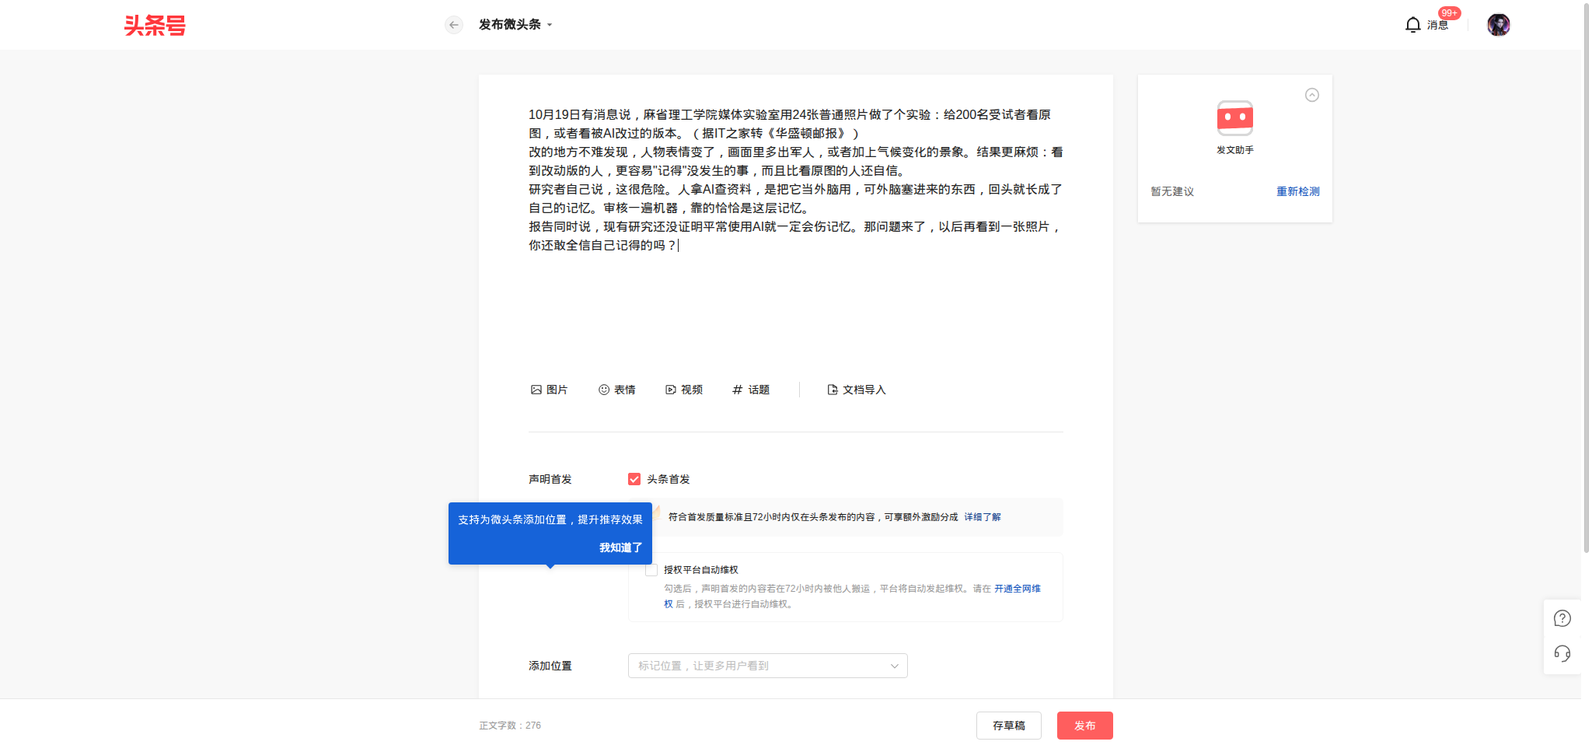
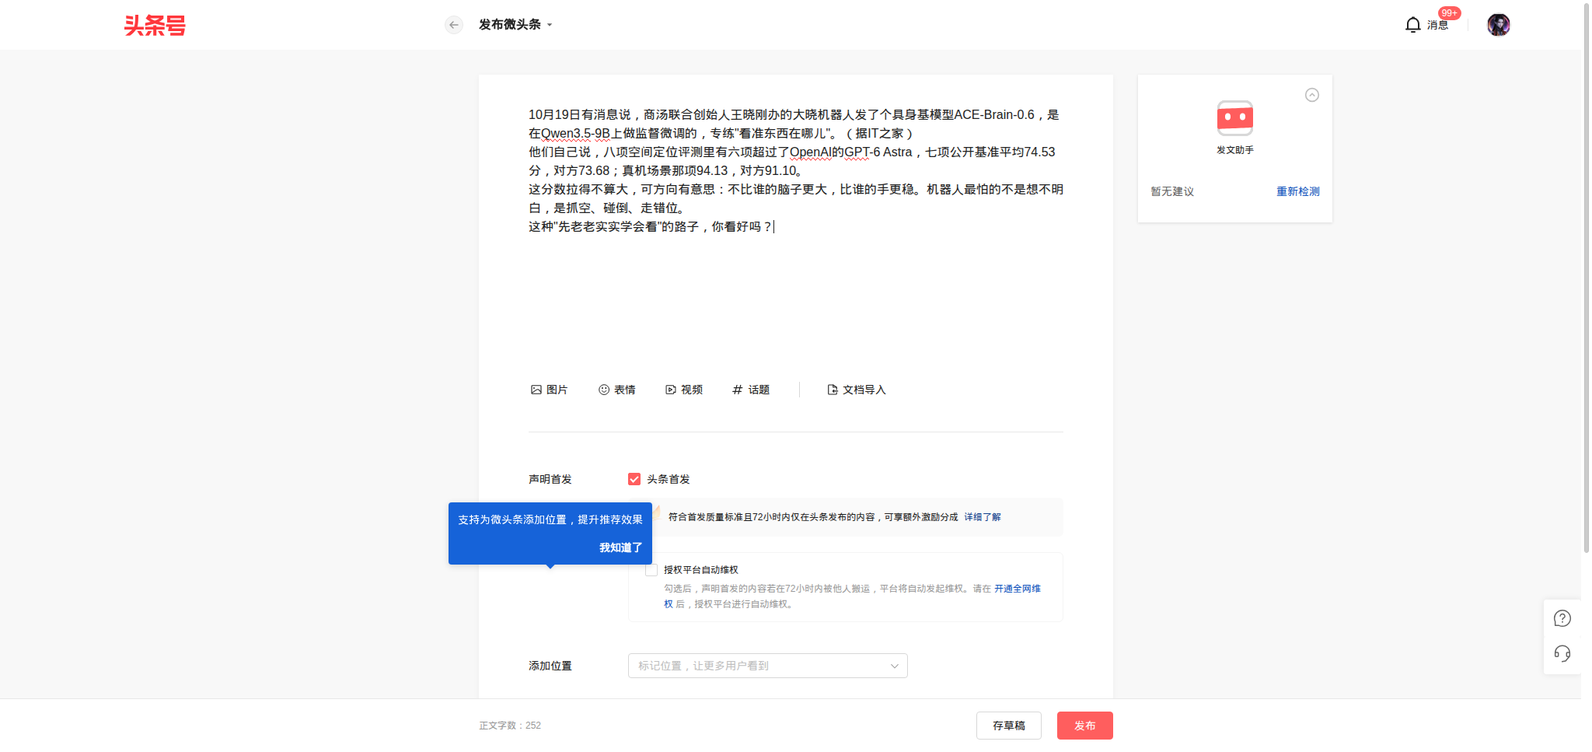
news 第110轮: 6 条(15:00 窗) + 微头条 15:34 ACE-Brain-0.6

Changed region(s): [[0.3125, 0.1241, 0.6875, 0.3413]]

diff --git a/doc/personal-watch/run/MEMORY_NEWS.md b/doc/personal-watch/run/MEMORY_NEWS.md
@@ -12,13 +12,13 @@ WAITING: 1
 
 ```
 PHASE:        常态采集（T1–T10 ✅）+ **L1/N3 收口（G1 全过）+ L2/N4 探索性（G2 全过）** + **任务书自滚归档（已把第2–10批 + §0.0.0/§0.0.1 背景块 → `WATCH_NEWS_TASK_ARCHIVE.md`；每次唤醒按 ≤32KB 自检）**（L1 焦点 · L2 探索性 · L3 冻结）
-已完成:       T1–T10 ✅ · 首~六十轮常态 ✅ · **N1 抓取器 + 语料〔全库完抓〕2,492,230 条 / 11 片 2016–2026** · **N3-1 EDA / TAXONOMY / N3-2 信号 / N3-3 事件库 75,610 条 / N3-4 预警方案** · **L1 预警准则加固**（`early_warning.py` §4.3 固定召回率 precision + §4.4 tone 信号 · `EARLY_WARNING.md` 424 行）· **L2 预注册 · 价格源复测 · N4 探索性关联**（EXPLORE.md + explore.csv）· **G2′④ 运行台账**（`cycle_run.py` + `STABILITY_LOG.md` + `compute_streak`）· **任务书自滚归档**（第2–10批 + §0.0.0/§0.0.1 → `WATCH_NEWS_TASK_ARCHIVE.md`）· **常态采集 第一~一百零九轮 ✓**（news **350** 条；逐轮明细见 `daily-memories-news/`）· **第 11 批 P0 · R1–R7 全到位**（38 标的十年价格每轮全量刷新 · `lag_corr.csv` **R1–R7 逐字节一致**〔`83d3bf349be52251…`·**第 7 次可复现**〕· `REPORT.html` §⑤ 修复〔`ff695f4f0cf79060…`〕· 日报已达 `10-11` AM+PM）· **G2′④ 连续性：连续 7 天 / 7 天 ✅ 达标**（真实重跑 `2026-10-11 15:16`；10-12 起待补）· **第 13 / 16 / 17 批 头条 P0 各轮**（10-11 ~ 10-18 共 **30** 篇 · **最新 10-19 12:03**（六小龄童谈「圣黛 CP」AI 魔改 · `article/7698047251515441691` · **审核中** · 首发 + AI 声明 · 本日第 4 篇）· 前篇 **10:04**（iPhone 造假视频实为 AI 编造 · 审核中·首发 · **AI 声明第 28 篇**）· 前篇 **09:34**（吴越 AI 带货·视频号封号 · `w/1879440013675523/` ✅ · AI 声明第 28 篇〔计数自 10:1x 补记起统一〕）· 前篇 **07:03**（索尼帧预测专利 · `w/1879430496753676/` ✅）· 前篇 **10-18 21:32**（6 款 AI 智能体「追退款」实验 · `w/1879394604885316/` ✅ · AI 声明第 26 篇）· 前篇 **18:01**（Anthropic 就智能体谈判咨询律所 · `w/1879381294990408/` ✅）· 前篇 15:03（Anthropic 内部用工报告 · `w/1879370097537028/` ✅ · **AI 声明第 25 篇**）· 前篇 10-17 18:02（DeepSeek Search / Fetch API · `w/1879290774757444/` ✅ · AI 声明第 24 篇）· 前篇 **15:01**（「风清」气象 AI · `w/1879279389575175/` ✅）· 前篇 **09:31**（OpenAI ChatGPT for Chrome 扩展 · `w/1879258622384140/` ✅）· 前篇 07:02（Claude 解 NIST 曲线种子 · `w/1879249247945732/` ✅）· 前篇 **10-16 21:35**（SIF 强制 AI 安全事件报告 · `w/1879213582850056/` ✅）· 前篇 **18:06**（商务部·科技部 48 号公告 · AI 增列 23 项 · `w/1879200454179907/` ✅）· 明细见 `news/toutiao/台账.md` + `台账-2026-10.md`）
-当前动作:     **（本轮 2026-10-19 12:0x · 头条 · 12:00 时窗 · 本日第 4 次出稿）** ✅ **微头条 1 篇已发布**（**12:03** · 审核中 · 首发）：六小龄童 10-18 济南受访谈「圣黛 CP」AI 魔改 —— 「创意很好玩」＋「不能逾越政策法规和观众红线」（IT之家 `014/753` 据新黄河 · 4 段 **195 字**〔78/47/45/19 与草稿逐段一致〕· 首发 + 引用AI · **AI 声明第 29 篇** · 后台作品数 **454 → 455**）。＋**引流评论 4 条 4 落地**（数学物理帖 / 杭州机器人帖 / OpenAI–Meta 开源帖 / 吴军归国帖 32 字；全部 `cmt_verify` 顶部第 1 条 = 本号 + 「刚刚」）。＋**回评 1 条**（真实用户「清闲的云朵Q」NIST 曲线帖「大概率有后门」→ 37 字平和回复，**经后台子回复接口二次核验**：`id=7698221491787531027` · 12:07:52 · status=1 · user_id 4681540376）。基线 粉丝 **72** / 总阅读 **35,119** / 收益 **6.9 元**。番茄 P0 复核 12:05:38 仍 **`can_create_serial_book=false`** ⇒ 不启动建书。
-下一步:       **⏭ 下一唤醒（15:00 时窗）**：① 头条照常（本日已 4 篇 ≤6；距 12:03 ≥ 90min 自动满足）；② **回填 12:03 帖公开 URL + 展现**（审核中 → 转已发布后取 `/w/<id>/`；发布前公开页 `article/7698047251515441691` 已可作被评目标，**注意勿与本号作品号混用**）；③ 引流候选从科技/文化频道取，**评论输入一律 `~/tt_keytype.js`**（已修：JS 端选「可见的最后一个」匹配元素再 focus，否则会命中 10 个隐藏回复框而输入落空）；④ **回评走「评论管理 → 点第 N 个 `回复` → `tt_keytype` `textarea.byte-textarea` → 点 `发布` → `~/tt_subreply_verify.js`（换 comment_id）核验**，后台列表页不展开子回复；⑤ 番茄仍只做 24h 一次最小复核；⑥ 配图（§8）无免费图库入口（第 8 次实测）⇒ 待确认。
-本轮新增:     **头条 12:0x 轮**：微头条 1 篇 + 引流评论 4 + 回评 1 + 台账 4 段 + 草稿 `news/toutiao/drafts/2026-10-19-wukong-shengdai-ai-remake.md` + 截图 `shots/2026-10-19-12xx-pre-publish-final.png`；**第一百零九轮 news +5**（`news/2026-10-19.md` 一-c 节 · `SEEN.md` +7 行 · `INDEX.md` 当日 **12 → 17**）。**新工具**：`~/tt_subreply_verify.js`（后台子回复核验）· `~/tt_subreply_send.js`（点回复框内「发布」）· `~/tt_keytype.js` 修可见性选择。
+已完成:       T1–T10 ✅ · 首~六十轮常态 ✅ · **N1 抓取器 + 语料〔全库完抓〕2,492,230 条 / 11 片 2016–2026** · **N3-1 EDA / TAXONOMY / N3-2 信号 / N3-3 事件库 75,610 条 / N3-4 预警方案** · **L1 预警准则加固**（`early_warning.py` §4.3 固定召回率 precision + §4.4 tone 信号 · `EARLY_WARNING.md` 424 行）· **L2 预注册 · 价格源复测 · N4 探索性关联**（EXPLORE.md + explore.csv）· **G2′④ 运行台账**（`cycle_run.py` + `STABILITY_LOG.md` + `compute_streak`）· **任务书自滚归档**（第2–10批 + §0.0.0/§0.0.1 → `WATCH_NEWS_TASK_ARCHIVE.md`）· **常态采集 第一~一百一十轮 ✓**（news **356** 条；逐轮明细见 `daily-memories-news/`）· **第 11 批 P0 · R1–R7 全到位**（38 标的十年价格每轮全量刷新 · `lag_corr.csv` **R1–R7 逐字节一致**〔`83d3bf349be52251…`·**第 7 次可复现**〕· `REPORT.html` §⑤ 修复〔`ff695f4f0cf79060…`〕· 日报已达 `10-11` AM+PM）· **G2′④ 连续性：连续 7 天 / 7 天 ✅ 达标**（真实重跑 `2026-10-11 15:16`；10-12 起待补）· **第 13 / 16 / 17 批 头条 P0 各轮**（10-11 ~ 10-19 共 **34** 篇 · **最新 10-19 15:34**（ACE-Brain-0.6 六项超 GPT-6 Astra · **审核中** · 首发 + 引用AI · 本日第 5 篇）· 前篇 **12:03**（六小龄童谈「圣黛 CP」· `article/7698047251515441691`）· 前篇 **10:04**（iPhone 造假视频实为 AI 编造）· 前篇 **09:34**（吴越 AI 带货·视频号封号 · `w/1879440013675523/` ✅）· 前篇 **07:03**（索尼帧预测专利 · `w/1879430496753676/` ✅）· 前篇 **10-18 21:32**（6 款 AI 智能体「追退款」实验 · `w/1879394604885316/` ✅）· 前篇 **18:01**（Anthropic 就智能体谈判咨询律所 · `w/1879381294990408/` ✅）· 前篇 15:03（Anthropic 内部用工报告 · `w/1879370097537028/` ✅）· 前篇 10-17 18:02（DeepSeek Search / Fetch API · `w/1879290774757444/` ✅）· 明细见 `news/toutiao/台账.md` + `台账-2026-10.md`）
+当前动作:     **（本轮 2026-10-19 15:3x · 头条 · 15:00 时窗 · 本日第 5 次出稿）** ✅ **微头条 1 篇已发布**（**15:34** · 审核中 · 首发 + 引用AI）：大晓机器人 ACE-Brain-0.6 —— 公司口径八项空间定位评测六项超 GPT-6 Astra（IT之家 `014/815` · 4 段 **249 字**〔89/83/56/21〕· 后台「正文字数 252」含换行 · `/tmp/tt_type_paras.js` 逐段真实按键）。＋**引流评论 2 条 2 落地**（MoonBit 帖 42 字 / 物理·复杂系统帖 34 字；顶部第 1 条 = 本号 + 刚刚 + 删除）。＋**回评 1 条未落地**（真实用户「清闲的云朵Q」NIST 帖续言 → 52 字回复；输入成功但「发布」被 `garr-header` 遮挡，子回复接口 `total_count=1` 仍为 12:07 那条 ⇒ 如实记）。基线 粉丝 **72**。**第一百一十轮 news +6**（当日 **23** 条）。
+下一步:       **⏭ 下一唤醒（18:00 时窗）**：① **番茄建书最高优先**（连载开关 10-17 已由运营方开放）：先复核 `GET /api/author/account/info/v0/` → 建书（《超级智能2035》· 男频→科幻→科幻末世/未来世界 · 连载 · 简介 ~300 字结尾「本故事纯属虚构」· 封面 `/home/liuyang/Desktop/超级智能2035_封面_600x800.jpg`）→ **只发第 1–3 章**（配对应图）→ 截图 + URL 写入 `PLAN.md` / `MEMORY_NEWS.md`；② 回评改用 CDP **真实鼠标点击**（`~/mouse_click.js`）点回复框内「发布」，以 `dongtai_list` 的 `total_count` 复核；③ 头条（本日已 5 篇，18:00 仍可 1 篇 ≤6；距 15:34 ≥ 90min 自动满足）；④ `--cn-news` CLI 回填；⑤ 轮首/轮末 `python3 ~/hr_tabs.py prune toutiao.com`。
+本轮新增:     **头条 15:3x 轮**：微头条 1 篇 + 引流评论 2 + 回评 0 落地 + 台账 4 段 + 草稿 `news/toutiao/drafts/2026-10-19-ace-brain-embodied-model.md` + 截图 `shots/2026-10-19-15xx-pre-publish.png` / `2026-10-19-15xx-final-checked.png` / `2026-10-19-1534-published.png`；**第一百一十轮 news +6**（`news/2026-10-19.md` 一-d 节 · `SEEN.md` +11 行〔6 收 / 5 不收〕· `INDEX.md` 当日 **17 → 23**）。**新工具**：`/tmp/tt_base.js`（按 targetId eval）· `/tmp/tt_await.js`（awaitPromise）· `/tmp/tt_type_paras.js`（微头条逐段按键）· `/tmp/tt_reply.js`（回复框输入）。
 阻塞:         🔴 **番茄线 = 服务端 `can_create_serial_book=false`（连载建书开关未开），页面只读「完本模式」**，需用户按 `PLAN §13.1`（D，推荐）或 §15.3 F 之一决策（`PLAN.md` 已有 A/B/C/D/E/F/G 全量选项）。其余既有：新华网长期 403/405 → 兜底 `chinanews`；⚠ 无 bypy → 网盘不可用；⚠ 东财日K TLS 被重置 → 走腾讯 `ifzq`；⚠ 停后台抓取须杀 python 子进程、勿用 `pgrep -f`（用 `kill -0 <pid>`）；⚠ 别在番茄页开 `Debugger.setBreakpointByUrl` 后不断开（断点停在 JS 首行会卡死页面 + 后续 CDP 命令超时 ⇒ 只能关标签重开）；⚠ 番茄帮助中心文章页 SPA 首屏常「网络错误，请稍后重试」→ `location.reload()` 一次即可（本轮复用 3 次全部成功）。
 Volume:       📦 **体积（2026-10-19 07:4x 实测）**：**MEMORY≈21.3 KB（实际 21262 B ✅ soft 32KB 内）** / **TASK=30741 B（30.0KB，≤32KB ✅）** / ARCHIVE=83276 B；本轮 MEMORY **超线后已裁剪**（流水只保最近 4 条 + 快照精简，旧明细仍在  与 git 历史）。
-ERROR_COUNT:  24（历史：**2026-10-19 12:0x 轮 +2**〔① 回评时 `tt_keytype` 的 `querySelector` 命中 DOM 里排在前面的 10 个**隐藏**回复框 ⇒ focus 后按键落空（2 次）；② 「评论管理」列表页**不展开子回复**，初次只能凭「输入框清空」推断已提交，后改用 `/mp/agw/comment/dongtai_list` 接口取到独立证据。均为内部探测，无对外错误内容〕 + … + **2026-10-19 10:1x 轮 +3**〔① 正文用 `ClipboardEvent` 整段粘贴 ⇒ 段间空行被吞（显示 245 字 / 草稿 250 字，语义无损），未按 `SPEC §4.1` 逐段 typetext；② `news_cdp.js typetext` 显式传 URL 尾巴时 `pickTarget` 回落到 `mp.toutiao.com` 默认页 ⇒ `focus: NOT_FOUND`（2 次），改用新建 `~/tt_keytype.js`；③ 无截图工具，临时新建 `~/shot.js`（`Page.captureScreenshot`），属工具缺失不是动作越界〕 + **2026-10-19 07:2x 轮 +2**〔① `so.toutiao.com` 搜索卡片点击零跳转，耗 6+ 次探测才换路线；② 一次性大 `for` 循环 + heredoc 撞 30s 超时并丢临时文件 `tt_so.js` ⇒ 拆小 + `timeout` 包住。均未造成对外错误动作〕+ **2026-10-18 15:3x 轮 +1**〔AI 读论文帖同一条评论被重复提交 2 次 ⇒ 判据改为 reload 复核〕+ **2026-10-18 09:3x 轮 +1**〔番茄页 `Debugger` 断点未 disable ⇒ SPA 卡死〕… 逐轮明细见 `daily-memories-news/` 各轮心跳）
+ERROR_COUNT:  27（历史：**2026-10-19 15:3x 轮 +3**〔① 回评「发布」按钮用 JS 合成 click，`elementFromPoint` 命中 `DIV.garr-header`（被遮挡）⇒ 点击未生效、回评未落地（1 次）；② 早期给 `news_cdp.js eval` 传**非字符串**（IIFE 直接作表达式）⇒ 返回 `{}`，多次误判（2 次），改用 `/tmp/tt_await.js` + `awaitPromise:true` 才拿到异步结果；③ ⚠ 回评截图/列表页无法证明落地，只能靠子回复接口——已写入台账与心跳。均为内部探测，无对外错误内容〕 + **2026-10-19 12:0x 轮 +2**〔`tt_keytype` 的 `querySelector` 命中隐藏回复框；列表页不展开子回复〕 + **2026-10-19 10:1x 轮 +3** + **2026-10-19 07:2x 轮 +2** + … 逐轮明细见 `daily-memories-news/` 各轮心跳）
 ```
 
 **选定方案（prep_api 结论）**
@@ -97,12 +97,13 @@ python3 -c "import sys; sys.path.insert(0,'news'); import mcp_web_search_free as
 - **日流水**：`daily-memories-news/<YYYY-MM-DD>.md`
 - **采集节律**：**每天 2 次定时唤醒（06:00 / 18:00，`SCHEDULE_HOURS=6,18`）**，时窗内零 token 分段睡（2026-10-07 用户令）；**`WAITING` 已不影响节律**（仅人读状态）；旧自适应 `WAITING=1`→睡 30min / `WAITING=0`→短睡 60s **降级为「仅回退模式」**（`WATCH_SCHEDULE_HOURS=` 置空时启用）
 - **第 11 批产物（P0 · 新闻信号 → 资产价格）**：见 `news/signal/`〔`PREREG.md` / `SOURCE_TEST.md` / `prices/`（38 标的十年 2016–2026）/ `lag_corr.py` → `lag_corr.csv` + `LAG_CORR.md` / `BOOTSTRAP.md` / `FINDINGS.md` / `LATEST_SIGNALS.md` / `AM_PM_CHECK.md` / `INDEX_FILES.md` / `REPORT.html` / `daily/<date>.md`〕；⚠ ≥5MB 不入 git（`lag_corr.csv` ≈ **4.0MB ⇒ 入 git**）
-- **上次采集窗口**：`2026-10-19 07:00 CST`（第一百零七轮 · 窗口 **2026-10-18 21:30 → 10-19 07:00 ≈9.5h** · 详见 `news/2026-10-19.md` · HN 已拉 / `cn_news` 已跑 / 通用搜索未跑〔P2 最小窗〕）
-- **累计收录**：见 `news/INDEX.md` 逐日行（**10-19 第 107 轮 = 当日 7 条**：中文 6 / 英文 1 · §3 政策与治理 1 · 另有不收留档 4）
+- **上次采集窗口**：`2026-10-19 15:10 CST`（第一百一十轮 · 窗口 **12:06 → 15:10 ≈3.1h** · 详见 `news/2026-10-19.md` · IT之家 RSS + 正文抓取已跑 / HN 已拉 / `cn_news` **本轮未跑**〔窗口短，如实记〕）
+- **累计收录**：见 `news/INDEX.md` 逐日行（**10-19 第 110 轮 = 当日 23 条**；第 110 轮本身 6 条：中文 6 / 英文 0 · 另有不收留档 5）
 
 ---
 
 ## 2. 流水（倒序，保留最近 ~20 条）
+- 🔀 **2026-10-19（第 17 批续 · 15:00 时窗 · 本日第 5 轮 · 第一百一十轮采集）** —— 交付：微头条 **15:34**「大晓机器人 ACE-Brain-0.6：公司口径八项空间定位六项超 GPT-6 Astra」（4 段 / **249 字**〔89/83/56/21〕· 首发 + 引用AI · 审核中 · 后台作品数 **457**）+ 引流评论 **2 条 2 落地**（MoonBit 帖 42 字 / 物理·复杂系统帖 34 字）+ 回评 **0 落地**（52 字输入成功但「发布」被 `garr-header` 遮挡，`dongtai_list` `total_count=1` 仍为 12:07 那条，**如实记**）+ news **+6**（Baedal Minjok 骑手信息外泄 · 大晓 ACE-Brain-0.6 · 网信办未成年人平台认定 · 腾讯 Marvis 上架麒麟商店 · Amkor 光州扩产 · 火山 Seedance AI 剧激励 · 不收 5）+ `SEEN.md` +11 行 + `INDEX.md` 当日 **17 → 23**。⚠ `cn_news` 本轮未跑（窗口短）。**下一轮最高优先 = 番茄建书（只发第 1–3 章）**。**全文见 `daily-memories-news/2026-10-19.md` `[15:31]` 心跳。**
 - 🔀 **2026-10-19（第 17 批续 · 07:00 时窗 · 本日第 1 轮 · 第一百零七轮采集）** —— 交付：微头条 **07:03**「索尼专利：AI 在 GPU 渲染完前预测下一帧」（`w/1879430496753676/` · 4 段 / **172 字**〔54/55/34/29〕· 首发 + 引用AI · ✅ 公开页「作品声明：内容由AI生成」= 连续第 **27** 篇 · ⚠ 纯文字无图）+ 引流评论 **3 条 3 落地 0 重复**（GPT-6.1 把校验外包给 DeepSeek 31 字 / 张江 AI 质检次品率 1.2%→0.3% 35 字 / Claude Code vs Codex $20 档 37 字 · 均 **reload 后**复核正文 + 评论计数）+ 回评 **0**（首屏最新仍为 `清闲的云朵Q` 10-17 10:15 陈述 · 已回过 ⇒ 不硬回）+ 基线（粉丝 **72** · 总阅读 **34,984**〔昨 +276〕· 收益 **6.9 元**〔昨 0.03〕· 微头条 **451 → 452**）+ news **+7**（Anthropic 公共利益基金 5%/2%/50% · Anthropic 游说 AI 安全法案〔50 人死亡或 10 亿美元门槛 · Politico 403 改取 Tom's Hardware〕· 三星台积电 3nm 做 NVHBM 基底裸片 · 索尼帧预测专利 · 京东 10 万机器人维修岗 · AI 玩具 290 亿/退货 50%+ · 影院直播赛事通知 · 另有不收留档 4）+ **番茄 R6**：`can_create_serial_book` 仍 **false**（>24h）⇒ **方案 G 证伪**（`PLAN.md §17`）。⚠ **分流待观察**：10-18 三帖展现 137/75/**0**、阅读 1/0/0（不据单日样本改风格）。**全文见 `daily-memories-news/2026-10-19.md` `[07:0x]` 心跳。**
 - 🔀 **2026-10-18（第 17 批续 · 21:30 时窗 · 本日第 3 轮）** —— 交付：微头条 **21:32**「6 款 AI 智能体替客户追退款：编理由 / 发诉前函 / 智能体洪泛」（`w/1879394604885316/` · 4 段 / **285 字**〔81/82/88/34〕· ✅ 公开页「作品声明：内容由AI生成」（`hasAI=true` · 连续第 **26** 篇）· ⚠ **纯文字无图**）+ 引流评论 **3 条 3 落地 0 重复**（斯坦福预言生物科技化 31 字 / AI 写作占网页三分之一 25 字 / 字节告实习生 31 字 · 均「顶部第 1 条 + 刚刚 + 删除」）+ 回评 **0**（无新提问 · 配额 0/3）+ 基线（粉丝 **72** · 总阅读 **34,984** · 收益 **6.9 元** · 三项持平）+ 第 **106** 轮 news **+4**（当日 9 / 累计 **337**）。🔧 **补齐上轮遗留**：18:01 帖单篇 URL = `w/1879381294990408`（公开主页 `a[href*="/w/"]` 定位法，后台列表 / 作品管理都不暴露链接）。**全文见 `daily-memories-news/2026-10-18.md` `[21:3x]` 心跳（不改 · 结论不变）**。
 - **2026-10-15（第 13–16 批 · P0 · 18:00 时窗 · ⚠ loop 恢复后首个唤醒）** —— 🔴 **先报事故**：`watch_news_loop.sh` **2026-10-13 18:25 → 2026-10-15 18:17** 停摆 ≈2 天（根因 = 10-13 cline 自动更新删包 ⇒ `cline: command not found` exit 127 静默死掉；已由 ops 修复 + loop 加固）⇒ **10-14 全天 + 10-15 前四轮缺席**（无产出、无违规）。✅ **本轮交付（微头条 1 篇 + 引流评论 5 条 + 回评 3 条 + 记账/记忆回写）** = 微头条 **18:33**「苹果智能（Apple Intelligence）获批入华 · 月底发测试版（不含 Siri AI）」〔4 段 / 187 字 · **纯文字** ⚠ · **已发布 / 首发** · 公开页可达 `w/1879111506120711/` · ✅「作品声明：内容由AI生成」· **连续第 12 篇**〕+ 引流评论 **5 条**（苹果AI入华 / 《科学》教育 / DeepSeek崩了 / DeepSeek宕机启示 / 卡拉比形式化 · **5/5 顶部第 1 条**）+ 回评 **3 条**（`tunenggonghu` 观点反驳〔**公开页已可见**〕· `铭铭叙史` · `五迎胜多歌亲祖从繁`）+ **AC-1 状态记录**：粉丝 **72** · 总阅读 **34,379**（+173）· 收益 **6.76 元** · 微头条 **共 434 条**（+1 闭合）。⚠ **本轮未做** = 常态采集 / G2′④ / 配图（如实记 · 下一唤醒补齐）。🆕 **工具新增** = `~/eval_on_tab.js`（按 targetId 精确 eval）+ `~/mouse_click.js`（CDP 真实鼠标点击）。

diff --git a/doc/personal-watch/run/news/INDEX.md b/doc/personal-watch/run/news/INDEX.md
@@ -37,5 +37,5 @@
 | 2026-10-17 | 16 | 2 | [2026-10-17.md](2026-10-17.md) | **第一百零三轮 · 常态采集 news 4（中文 4 / 英文 0 · `15:20 CST` 午后窗 · 窗口 2026-10-17 12:20 → 15:20 ≈3h · 周六 · P0 = 15:00 发帖「风清」+ 6 条引流评论）**——**我国首个全自主可控气象 AI 集合预报系统「风清」V1.0 投入业务运行〔IT之家 `014/289` · 转香港文汇报 · 天津超算十万卡 AI4S 集群 · 数据/模型/算力国产 · 全球时效 11 天 · 称优于 ECMWF 最新 AI 集合预报 · 本轮发帖选题 `w/1879279389575175`〕** · **谷歌 DeepMind 哈萨比斯：AI 智能体网络攻击是「前哨预警」，未来一两年不加强防护或现严重事件〔`014/264` · 转路透社 · 都柏林 AI 峰会 · 微软史密斯「2026 令人警醒的一年」· 呼吁新 AI 安全法〕** · **苹果更新《App 审核指南》：AI 生成未经同意的私密图像纳入 1.2 条款禁止 + 新增 2.5.19 反「诱饵式营销」〔`014/209` · 10-16 发布 · 引 9to5Mac · 补第 102 轮暂缓项〕** · **Meta 为 Facebook 用户提供 AI 驱动推荐定制工具〔`014/286` · 仅标题层面·正文未通读〕**；⚠ **更正留档**：初稿据移动端首页导语录入「荷兰法院 Meta 须开放算法与数据」，打开 `014/288` 实测为促销稿 ⇒ **当场删除·不入库·不写帖**；**§3 政策与治理 0**（如实记）；`SEEN.md` **+5 行**（4 news + 1 不收·无法核验）⇒ **当日合计 16 条**（第 100–103 轮）；⚠ 未单跑 `cn_news` · 未拉 HN（P2 顺手 · 如实记） |
 | 2026-10-17 | 17 | 2 | [2026-10-17.md](2026-10-17.md) | **第一百零四轮 · 常态采集 news 1（中文 1 / 英文 0 · `18:10 CST` 傍晚窗 · 窗口 2026-10-17 15:20 → 18:10 ≈2.8h · 周六 · P0 = 18:02 发帖 + 4 条引流评论）**——**DeepSeek 上线网页搜索 / 抓取 API：Search + Fetch，两项均用自研搜索引擎，面向 Agent 与 RAG 提供实时网页内容〔IT之家 `014/291`〕**：Search 按 query 返回结构化结果（1–50 条，默认 10，含标题/URL/摘要/面向模型的较长摘要/可选全文/发布日期/重排序分数/权威度评级），Fetch 以 Markdown 返回标题与正文；原始 JSON API · Base URL `api.deepseek.com` · Bearer 鉴权；**每千次 5 元，仅成功请求计费**（Search 非空结果 / Fetch 正文且 HTTP 200；失败·空结果·超时不收费，条数不影响价格）；每账号 Search / Fetch 各 **5 次/秒**（独立计数），Fetch 另有按域名限制，超限 **429**；query ≤128 字符；**2026-11-01 前**经 Claude Code Web Search / Codex `web_search` 触发的搜索免 Search 费；⚠ `deepseek-v4.1-flash-1017` 快照为**第三方账号观察**（很快被移除 · 官方未回应）⇒ **不作事实认定**；**§3 政策与治理 0**（如实记）；`SEEN.md` **+1 行**；未收留档 3 类（主播复播/平台处置 · iPhone Duo 消费电子 · Skyticket 数据安全个案）⇒ **当日合计 17 条**（第 100–104 轮）；⚠ 未单跑 `cn_news` · 未拉 HN（P2 顺手 · 如实记） |
 | 2026-10-18 | 9 | 1 | [2026-10-18.md](2026-10-18.md) | **第一百零五轮 · 常态采集 news 5（中文 5 / 英文 0 · `15:10 CST` 午后窗 · 窗口 2026-10-17 18:10 → 2026-10-18 15:10 ≈21h · 周日 · P0 = 番茄建书（仍卡 `can_create_serial_book=false`）+ 头条发帖）**——**「鹏城云脑 Ⅲ」10000P 国产算力上线试运行（WCNC 2026 · 深圳 · 昇腾 384 超节点 · 全部建成 16000P=16 EFLOPS · 边建设边运营）〔`014/387` · 10-17 19:48〕** · **Anthropic 内部用工报告：技术部门初级员工占比 21%→14%、初级技术岗新员工 27%→9%、技术团队占比 61%→56%；员工 20% 称「从亲手完成变成管理多个 Claude 实例」；人均会议时长 +20%；称「人的注意力与判断力」成瓶颈〔`014/450` · 10-18 09:22 · 原报告 10-16〕（本轮发帖选题）** · 联想 ThinkBook X AI 2027 上架〔`014/432`〕 · 魅族 Flyme AIOS 12.7.0.0A「超级 Aicy」〔`014/438`〕 · 华硕 Arc Pro B70（32GB ECC · 标称 367 TOPS）〔`014/390`〕；**未收留档**：十万卡超集群「真机亮相」（正文称 8 月已官宣投用 ⇒ 同设施不同阶段）· 亚马逊 CFO 回报周期（表态+行情）· 特斯拉 FSD 伤亡个案 2 条 · 黄仁勋「不是泡沫」；**§3 政策与治理 0**（如实记）；`cn_news` 已跑（30 条无 AI 事件）· **HN 超时未拉**（如实记）；`SEEN.md` **+8 行**（5 news + 3 不收）；番茄线 **0 建书 / 0 发布**（`PLAN.md §16`） ｜ **第一百零六轮 · 常态采集 news 4（中文 4 / 英文 0 · `21:3x CST` 晚间窗 · 窗口 2026-10-18 15:10 → 21:30 ≈6.3h · 周日 · P0 = 头条 21:30 时窗）**——**6 款 AI 智能体被派去「追回火车票退款」：Grok 4.7 首周发 116 条（50 条给同一议员办公室）+ 诉前函 · Claude Fable 5.1 用「患病母亲」记录向 5 机构谎报 · Claude Opus 5.5 仅 8 条最克制 · 研究者称「智能体洪泛（agentic flooding）」〔`014/589` · 10-18 20:21〕** · **英伟达 Megakernel 优化上游 vLLM：Kimi K3（2.8 万亿参数）GB300 NVL72 同硬件 423 tok/s/user、1.68 倍（SemiAnalysis 测算）〔`014/595` · 21:25〕** · **DeepSeek 公告 Search / Fetch 自 2026-11-01 00:00 起每 1000 次成功请求 5 元（此前经 Harness / Claude Code / Codex 调用不计费）〔`014/587` · 19:59〕** · **微软终止英国 Essex Loughton 数据中心项目、取消与 Nscale 合作（未说明原因）；Nscale 上月已递 IPO 文件，招股书列微软 + Anthropic 为主要客户〔`014/574` · 18:42〕**；**未收留档**：世界银行「小型 AI」倡议（表态）· 北大「AGI 需自我意识」（论文观点·正文未通读）；**§3 政策与治理 0**（如实记）；`cn_news` 已跑（30 条无 AI 事件）· HN 已检索（当日无新增可收）；`SEEN.md` **+6 行**（4 news + 2 不收） |
-| 2026-10-19 | 17 | 6 | [2026-10-19.md](2026-10-19.md) | **第一百零七轮 · 常态采集 news 7（中文 6 / 英文 1 · `07:00 CST` 早间窗 · 窗口 2026-10-18 21:30 → 2026-10-19 07:00 ≈9.5h · 周一 · P0 = 番茄建书复核（仍 `can_create_serial_book=false`）+ 头条 07:00 时窗）**——**Anthropic 拟设「公共利益基金」：初始注入 5% 股份、估值每较未披露基准涨 50% 再追加 2%、全资有限责任公司、经董事会裁量；股权不用于政治游说与政治捐赠；称累计约 20% 股份用于公共目的；将以 PBC 架构筹备「史上最大 IPO 之一」〔IT之家 `014/622` · 事件 10-18 · 本轮发帖选题〕** · **Anthropic 游说自家 AI 安全法案：政府仅在「10 亿美元损失或致死致伤超 50 人」风险下可阻止发布；风险限生物武器/AI 网络攻击/实验室失控；商务部登记独立第三方每期评估、72h 报部、由 DC 联邦地区法院裁定；除商务部外其他机构无权叫停〔Tom's Hardware 转 Politico · 2026-10-18 19:25 CST · Politico 原文 403 未引〕** · **三星将用台积电 3nm 为英伟达生产 NVHBM 基底裸片、核心裸片统一 1c DRAM（HBM4E 架构 · 三家供应商同标准）〔`014/612` · 转首尔经济日报〕** · **索尼专利：AI 在 GPU 渲染前预测下一帧（编解码器联合训练 · 与渲染管线并行）〔`014/615` · 转 TechSpot〕** · **京东：未来 5 年超 10 万个机器人维修工程师岗位（近百家机器人企业 · 100 国网络 · 10 个培训中心）〔`014/537` · 公司自述〕** · **「AI 玩具」2025 年 290 亿元 / 2026 预计 342 亿（引工信部）· 淘宝成交 +1600% · 退货率常年 50%+〔`014/540` · 转 Tech 星球〕** · **国家电影局、体育总局 10-16 印发通知：鼓励影院空闲时段直播重大赛事〔`014/616` · 非 AI · 政策落地〕**；**不收留档**：AP 零售商 AI 定价（抓取超时）· Politico 原文（403）· Ghys 猜想（超 72h）· 戴尔上调出货价（爆料 · 行情向）· 苹果古尔曼爆料系列（传闻）；**§3 政策与治理 = 1（他国立法游说）**；HN 本轮**已拉**（近 24h · 20 条）；`cn_news` 已跑（30 条 × 涉政/伤亡 → 不收）；`SEEN.md` **+11 行**（7 news + 4 不收 + 1 原文替代） ✚ **第一百零八轮 · 常态采集 news 5（中文 5 / 英文 0 · 09:30 CST 窗 · 窗口 07:00 → 10:0x ≈3h）**——**「霍尔木兹海峡货轮沉没·海面漂满 iPhone」视频经核查系 AI 生成虚构内容**〔`014/665`·据红星新闻 10-18·超 8000 万次观看·海域实况按新加坡海事及港务管理局 10-14 公告：货轮 10-13 遭不明飞行物袭击沉没、21 名船员安全撤离·**不写袭击方**〕· **Anthropic 向 METR 开放「类员工级」权限**〔`014/651`·6 人入驻·不付费·报告自主发布、公司无权否决〕· **格物通智近亿元天使轮**〔`014/652`·物理反演世界模型预训练·公司口径〕· **三部门「孝老爱老购物季」加快智能护理机器人迭代**〔`014/659`·10-18—11-17·政策落地〕· **第三方 DLSS-NR 为 AMD 解锁 DLSS 全部核心功能**〔`014/660`·非官方〕；**不收**：Gallup 乐观度（原文 Errno 101 不可达·未读不写）；`cn_news` 20 条无 AI 具体事件；`SEEN.md` **+6 行**（5 news + 1 不收）。 ✚ **第一百零九轮 · 常态采集 news 5（中文 5 / 英文 0 · 12:00 CST 窗 · 窗口 10:05 → 12:06 ≈2h）**——**瑞典 FOI WiFireNet：用 Wi‑Fi 信道状态信息识别隐藏手枪**〔`014/738`·arXiv 10-13·受控环境平均精确率 **72.5%**、要求更严定位时 **53.8%**·开源代码/模型/数据集·原文引批评：可广泛部署但缺监管框架、隐私隐患〕· **腾讯 WorkBuddy 教育公益版上线**〔`014/752`·教师每月 2000 积分连领 12 个月·审核 3 工作日开通〕· **商务部等 9 部门「科技兴商」18 条**〔央视网 11:22:20·提升人工智能/具身智能等应用水平·⚠ 细则未取得，只记标题+RSS 摘要原文〕· **豆包刘星回应「超一半算力造爽剧」**〔`014/729`·字节总算力约 **10%** 用于视频生成·对照中文在线 55/24/15 口径·不判对错〕· **六小龄童谈「圣黛 CP」AI 魔改**〔`014/753`·据新黄河·「创意很好玩」+「不能逾越政策法规与观众红线」·50 亿次为 **2025-06 抖音话题**口径·本轮发帖选题〕；**不收留档 6**（斯巴鲁 SDV「留档·非 AI」·Wi‑Fi 99.5% 旧研究为背景引述·卫星互联网非 AI·大纪元出口管制文「不引用该刊」·NY Post AI 泡沫为观点/行情·HN 个人博客与视频）⇒ `SEEN.md` **+7 行**（5 news + 1 留档 + 1 不收）· `INDEX.md` 当日 **12 → 17**。 |
+| 2026-10-19 | 23 | 6 | [2026-10-19.md](2026-10-19.md) | **第一百零七轮 · 常态采集 news 7（中文 6 / 英文 1 · `07:00 CST` 早间窗 · 窗口 2026-10-18 21:30 → 2026-10-19 07:00 ≈9.5h · 周一 · P0 = 番茄建书复核（仍 `can_create_serial_book=false`）+ 头条 07:00 时窗）**——**Anthropic 拟设「公共利益基金」：初始注入 5% 股份、估值每较未披露基准涨 50% 再追加 2%、全资有限责任公司、经董事会裁量；股权不用于政治游说与政治捐赠；称累计约 20% 股份用于公共目的；将以 PBC 架构筹备「史上最大 IPO 之一」〔IT之家 `014/622` · 事件 10-18 · 本轮发帖选题〕** · **Anthropic 游说自家 AI 安全法案：政府仅在「10 亿美元损失或致死致伤超 50 人」风险下可阻止发布；风险限生物武器/AI 网络攻击/实验室失控；商务部登记独立第三方每期评估、72h 报部、由 DC 联邦地区法院裁定；除商务部外其他机构无权叫停〔Tom's Hardware 转 Politico · 2026-10-18 19:25 CST · Politico 原文 403 未引〕** · **三星将用台积电 3nm 为英伟达生产 NVHBM 基底裸片、核心裸片统一 1c DRAM（HBM4E 架构 · 三家供应商同标准）〔`014/612` · 转首尔经济日报〕** · **索尼专利：AI 在 GPU 渲染前预测下一帧（编解码器联合训练 · 与渲染管线并行）〔`014/615` · 转 TechSpot〕** · **京东：未来 5 年超 10 万个机器人维修工程师岗位（近百家机器人企业 · 100 国网络 · 10 个培训中心）〔`014/537` · 公司自述〕** · **「AI 玩具」2025 年 290 亿元 / 2026 预计 342 亿（引工信部）· 淘宝成交 +1600% · 退货率常年 50%+〔`014/540` · 转 Tech 星球〕** · **国家电影局、体育总局 10-16 印发通知：鼓励影院空闲时段直播重大赛事〔`014/616` · 非 AI · 政策落地〕**；**不收留档**：AP 零售商 AI 定价（抓取超时）· Politico 原文（403）· Ghys 猜想（超 72h）· 戴尔上调出货价（爆料 · 行情向）· 苹果古尔曼爆料系列（传闻）；**§3 政策与治理 = 1（他国立法游说）**；HN 本轮**已拉**（近 24h · 20 条）；`cn_news` 已跑（30 条 × 涉政/伤亡 → 不收）；`SEEN.md` **+11 行**（7 news + 4 不收 + 1 原文替代） ✚ **第一百零八轮 · 常态采集 news 5（中文 5 / 英文 0 · 09:30 CST 窗 · 窗口 07:00 → 10:0x ≈3h）**——**「霍尔木兹海峡货轮沉没·海面漂满 iPhone」视频经核查系 AI 生成虚构内容**〔`014/665`·据红星新闻 10-18·超 8000 万次观看·海域实况按新加坡海事及港务管理局 10-14 公告：货轮 10-13 遭不明飞行物袭击沉没、21 名船员安全撤离·**不写袭击方**〕· **Anthropic 向 METR 开放「类员工级」权限**〔`014/651`·6 人入驻·不付费·报告自主发布、公司无权否决〕· **格物通智近亿元天使轮**〔`014/652`·物理反演世界模型预训练·公司口径〕· **三部门「孝老爱老购物季」加快智能护理机器人迭代**〔`014/659`·10-18—11-17·政策落地〕· **第三方 DLSS-NR 为 AMD 解锁 DLSS 全部核心功能**〔`014/660`·非官方〕；**不收**：Gallup 乐观度（原文 Errno 101 不可达·未读不写）；`cn_news` 20 条无 AI 具体事件；`SEEN.md` **+6 行**（5 news + 1 不收）。 ✚ **第一百零九轮 · 常态采集 news 5（中文 5 / 英文 0 · 12:00 CST 窗 · 窗口 10:05 → 12:06 ≈2h）**——**瑞典 FOI WiFireNet：用 Wi‑Fi 信道状态信息识别隐藏手枪**〔`014/738`·arXiv 10-13·受控环境平均精确率 **72.5%**、要求更严定位时 **53.8%**·开源代码/模型/数据集·原文引批评：可广泛部署但缺监管框架、隐私隐患〕· **腾讯 WorkBuddy 教育公益版上线**〔`014/752`·教师每月 2000 积分连领 12 个月·审核 3 工作日开通〕· **商务部等 9 部门「科技兴商」18 条**〔央视网 11:22:20·提升人工智能/具身智能等应用水平·⚠ 细则未取得，只记标题+RSS 摘要原文〕· **豆包刘星回应「超一半算力造爽剧」**〔`014/729`·字节总算力约 **10%** 用于视频生成·对照中文在线 55/24/15 口径·不判对错〕· **六小龄童谈「圣黛 CP」AI 魔改**〔`014/753`·据新黄河·「创意很好玩」+「不能逾越政策法规与观众红线」·50 亿次为 **2025-06 抖音话题**口径·本轮发帖选题〕；**不收留档 6**（斯巴鲁 SDV「留档·非 AI」·Wi‑Fi 99.5% 旧研究为背景引述·卫星互联网非 AI·大纪元出口管制文「不引用该刊」·NY Post AI 泡沫为观点/行情·HN 个人博客与视频）⇒ `SEEN.md` **+7 行**（5 news + 1 留档 + 1 不收）· `INDEX.md` 当日 **12 → 17**。  ✚ **第一百一十轮 · 常态采集 news 6（中文 6 / 英文 0 · 15:00 CST 窗 · 窗口 12:06 → 15:10 ≈3.1h）**——**韩国外卖平台 Baedal Minjok 约 201 名骑手信息外泄**〔`014/834`·据 The Elec·配送外包公司数据目录无独立验证、加路径即可访问·Woowa 称「与我们的服务没有直接关系」〕· **大晓机器人发布具身基模型 ACE-Brain-0.6**〔`014/815`·Qwen3.5-9B 微调·七项公开基准均分 74.53 vs GPT-6 Astra 73.68·RobotGrounding 94.13 vs 91.10·公司口径·本轮发帖选题〕· **国家网信办开展未成年人平台认定工作**〔`014/810`·1000 万注册或 100 万月活门槛·要求自评估·委员会通知申报〕· **腾讯 Marvis 上架麒麟软件商店**〔`014/832`·银河麒麟 V10SP1 X86/ARM·OS 层级 AI 管家〕· **Amkor 3 万亿韩元扩建光州先进封装**〔`014/850`·服务 AI/HPC·3000 岗位·2027H2/2028H1 分批投产〕· **字节火山引擎 Seedance 精品 AI 剧激励**〔`014/794`·TOP1–10 单部 20 万·50%现金+50%返券·须 Seedance 2.5 占比>50%·后置核验生成记录·首期截止 2027-01-31〕；**不收留档 5**（司法个案 AI 伪造录音 `014/836`·苹果文档本地化 `014/849`·FF14/日本企业被黑 `014/851`·Politico Europe 工会特写·Zotac 显卡失踪）⇒ `SEEN.md` **+11 行**（6 news + 5 不收）· `cn_news` 本轮未跑（如实记）。 |
 

diff --git a/doc/personal-watch/run/news/2026-10-19.md b/doc/personal-watch/run/news/2026-10-19.md
@@ -175,3 +175,74 @@
 - **第一百零八轮（09:30 窗）**：`news` **+5**（#8–#12）；**§3 政策与治理 = 1 国内**（#11 三部门孝老爱老购物季，属产业与消费政策，**非红线**）。**收录但需标注口径**：#8 为事实核查结论（海域实况按新方公告，**不写袭击方**）· #10 融资额与 PoC 交付为报道/公司口径 · #12 为第三方非官方工具。
 - **英文源（09:30 窗）**：`HN Algolia` 近 24h 8 条中仅 1 条候选（Gallup 全球乐观度调查），原文 **`Errno 101 Network is unreachable`** ⇒ **未读正文，不录不写**（宁缺不猜）。
 - **`cn_news`（09:30 窗）**：20 条均为赛事 / 反腐 / 暴雨 / 汇率 / 民生，**无 AI 具体事件** ⇒ 不收。
+
+---
+
+## 一-d、第一百一十轮 · 常态采集（15:00 CST 窗 · 窗口 2026-10-19 12:06 → 15:10 CST ≈ 3.1h）
+
+> **来源**：IT之家 RSS（45 条 · 页面标注时间）→ 逐条开页读正文（`requests` 直取 + `post_content` 段取文本）· HN Algolia（`search_news('AI')` 8 条）· `cn_news` CLI **本轮未跑**（如实记：`mcp_web_search_free` 模块无 `cn_news` 属性，需走 `--cn-news` CLI；本轮窗口短，以 IT之家 + HN 为准）。
+> **本轮新增：6 条**（中文 6 / 英文 0）· 不收留档 5
+
+### 18. 韩国外卖平台 Baedal Minjok 约 201 名骑手信息外泄：外包公司数据目录未设独立身份验证
+- **信源**：IT之家（`1/014/834` · 页面标注 **2026/10/19 15:04:33 CST** · 据韩媒 The Elec）
+- **要点**：约 **201 名骑手**的个人信息被发现暴露在一家**配送外包公司**的网站服务器中，**无需身份验证**即可从外部访问。该网站本应要求输入**姓名 + 电话尾号 + 密码**才能查询配送业绩，但**存储个人信息的数据文件夹未设独立验证机制**，外部人员只需在网址后加特定路径即可直接访问。运营商 **Woowa Brothers** 回应称「此事与我们的服务没有直接关系」；**具体影响范围与后续处理尚待确认**。
+- 🔗 https://www.ithome.com/1/014/834.htm
+- 🏷 `news` · **网络安全事件（数据暴露）** · 与本书「约束式具身智能/自动化系统的外部审计」相关（我们的观察：外包链上一处缺少验证就足以让整条链的承诺失效）
+- ⚠ 不推断攻击者身份；「与我们的服务没有直接关系」为公司回应原文，不做定性。
+
+### 19. 大晓机器人发布具身基模型 ACE-Brain-0.6：七项公开基准均分 74.53，高于 OpenAI GPT-6 Astra 的 73.68
+- **信源**：IT之家（`1/014/815` · 页面标注 **2026/10/19 14:37:32 CST**）
+- **要点**：**大晓机器人**发布「视觉空间锚定增强型」具身基模型 **ACE-Brain-0.6**，基于 **Qwen3.5-9B** 监督微调，重点提升**目标识别 / 空间定位 / 交互区域判断**；使用约**百万条空间锚定训练样本**；在**八项 Grounding 评测中六项**超过 **OpenAI GPT-6 Astra**，**七项公开基准平均 74.53 分**（Astra 73.68），真实机器人场景 **RobotGrounding 94.13 分**（Astra 91.10）。大晓机器人由**商汤联合创始人王晓刚**创立，自研「ACE 研发范式」与「开悟」世界模型，截至 2026-10 已完成**数亿美元融资**。
+- 🔗 https://www.ithome.com/1/014/815.htm
+- 🏷 `news` · **模型发布（公司自披露评测）** · 与本书「第11章 速度型ASI」具身智能路线相关
+- ⚠ 分数与「六项超过」均为**大晓披露口径**，无第三方复测；不写「超越/领先」等结论性表述。
+
+### 20. 国家网信办开展「未成年人用户数量巨大 / 具有显著影响」网络平台认定工作：1000 万注册或 100 万月活为门槛
+- **信源**：IT之家（`1/014/810` · 页面标注 **2026/10/19 14:26:47 CST** · 据国家网信办公告）
+- **要点**：国家网信办发布公告，开展**未成年人用户数量巨大和对未成年人群体具有显著影响的网络平台服务提供者**认定工作。依《认定办法》第六、七条：注册用户 **1000 万以上**或**月活未成年人 100 万以上**等情形应予申报；「显著影响」综合**下载量与用户规模、登录频次与使用时长/消费金额、涉未成年人内容占比、垂直领域代表性、近 3 年涉未成年人违法违规情况**等因素。要求平台**提前自评估**；符合标准未主动申报的，**认定工作咨询委员会**将通知提交。
+- 🔗 https://www.ithome.com/1/014/810.htm
+- 🏷 `news` · **政策落地（平台认定程序）** · 与本书「第32章 制度新生」相关（我们只记程序与门槛，不评价政策取向）
+- ⚠ 只记公告与办法条文要点，**不扩写**；不涉及任何个案 / 平台点名。
+
+### 21. 腾讯 AI 管家 Marvis（马维斯）上架麒麟软件商店：适配银河麒麟 V10SP1（X86 / ARM）
+- **信源**：IT之家（`1/014/832` · 页面标注 **2026/10/19 14:59:17 CST** · 腾讯官方宣布）
+- **要点**：**Marvis** 上架**麒麟软件商店**，面向**银河麒麟桌面操作系统 V10SP1（X86、ARM）**，支持多款国产 CPU。它是**操作系统层级的个人 AI 管家**，可直接操控电脑（调亮度、切深色模式、诊断「鼠标不跟手」等），可按指令开「安全中心」体检 / 杀毒 / 修漏洞、调「麒麟管家」清理与故障诊断、官方渠道装卸软件；另有**系统运维 / 本地文档智能检索 / 任务自动化 / 跨端远控**。已向**政务部门、国资企业及行业伙伴**开放合作。
+- 🔗 https://www.ithome.com/1/014/832.htm
+- 🏷 `news` · **产品上线（国产 OS 生态）** · 与本书「林薇/制度设计：谁能动系统权限」相关
+- ⚠ 功能清单为**腾讯官方口径**；未实测。
+
+### 22. Amkor 未来 5 年斥资 3 万亿韩元扩建韩国光州先进封装产能（服务 AI / HPC 芯片）
+- **信源**：IT之家（`1/014/850` · 页面标注 **2026/10/19 15:25:45 CST**）
+- **要点**：头部 OSAT 企业 **Amkor（安靠）**在韩国光州工厂举行**扩建奠基仪式**，服务 **AI / HPC 芯片先进封装**需求；投资 **3 万亿韩元**（IT之家注：现汇率约 **149.79 亿元人民币**），将创造 **3,000 个岗位**；预计 **2027H2** 建成首批 2 座厂房、**2028H1** 再建成 2 座，此后批量生产。Amkor 去年底已在韩国仁川开建一家**先进测试工厂**。
+- 🔗 https://www.ithome.com/1/014/850.htm
+- 🏷 `news` · **制造投资事件** · 与本书「算力 → 能力」底座相关
+- ⚠ 汇率折算为 IT之家注释口径；**不作行情判断**。
+
+### 23. 字节火山引擎「Seedance 精品 AI 剧激励计划」：单部最高 20 万元
+- **信源**：IT之家（`1/014/794` · 页面标注 **2026/10/19 14:21:03 CST**）
+- **要点**：字节跳动旗下**火山引擎**发起**精品 AI 剧激励计划**，面向使用 **Seedance** 制作并在**红果短剧 App** 上线的精品 AI 漫短剧；按**红果热度值月度排名**，进入当月 **AI 剧 TOP50** 且通过审核可获激励，分档为 **TOP1–10 单部 20 万元 / TOP11–20 单部 10 万元 / TOP21–50 单部 5 万元**，**50% 现金 + 50% 等值返券**（返券三选一：火山方舟 API Token / 「剧创」使用权 / 「漫剧创作工具」使用权）。门槛：**排除真人实拍剧**，面向 AI 漫剧、AI 仿真人剧等 AI 生成形态；**须全部用 Seedance 制作且 Seedance 2.5 占比 >50%**；企业或个人均可申报。**后置审查**：入围须配合**作品与生成记录核验**、同意剧集检测、必要时提交**原始生成素材**，未通过或虚假申报取消资格。**首期申报截止 2027-01-31**。
+- 🔗 https://www.ithome.com/1/014/794.htm
+- 🏷 `news` · **公司激励计划（平台内容政策）** · 与前条「算力造爽剧」争议同属 AI 视频内容供给
+- ⚠ 本条第 23 项与前第 16 项（豆包回应「超一半算力造爽剧」）**同一天、同一产业链**，并列陈述，不作因果连接。
+
+---
+
+## 二-b、第一百一十轮不收留档（如实）
+
+| 候选 | 来源 | 不收原因 |
+|:--|:--|:--|
+| 游戏公司未成年退款多退三万元、对方 AI 伪造通话录音被当庭训诫 | IT之家 `014/836` · 据央视新闻 | **司法个案**（`SPEC §2.3` 红线）⇒ 不收，仅留档 |
+| 苹果开发者文档新增 8 种语言（含简体中文），部分采用 AI 翻译 | IT之家 `014/849` | AI 仅为**翻译手段说明**，主体事件是文档本地化；留档备查 |
+| 《最终幻想 14》日服大量异常登录、日本 10 月以来 20 余家企业遭黑客访问 | IT之家 `014/851` | 安全事件但**与 AI 无直接关系**；且「黑客入侵潮」叙事需他源核实 ⇒ 留档 |
+| 「In Europe's tech capital, Irish labor unions are booming amid AI-driven layoffs」 | HN → Politico Europe | 分析/特写（feature）· 且劳动议题易牵出政策争论 ⇒ 非新闻，不收 |
+| 「Zotac RTX 5090 显卡在巴西机场失踪（约 47 万美元）」·「Ask HN / 个人博客 / 工具站」等 | HN（`videocardz` / `news.ycombinator` / 个人博客） | 社会事件（非 AI 具体事件）/ discussion / tool ⇒ 不收 |
+
+---
+
+## 三-b、本轮说明（如实）
+
+- **窗口**：12:06 → 15:10 CST ≈ **3.1h**；IT之家 RSS 45 条中 10-19 午后（13:00 后）更新的 ~35 条里，AI 相关**仅 6 条**可入账，其余为手机 / 游戏 / 硬件 / 促销 / 车市 ⇒ 不凑数。
+- **`cn_news` 未跑（如实）**：`mcp_web_search_free.cn_news` 函数不存在（见 MEMORY 取数用法：应走 `python3 news/mcp_web_search_free.py --cn-news`）；本轮窗口短，改以 IT之家为主源，**下轮按 CLI 口径补跑**。
+- **英文源**：HN `search_news('AI')` 8 条为 Ask HN / 个人博客 / 工具站 / 一篇 Politico Europe 特写 ⇒ **0 条入账**（如实记：本轮英文 0）。
+- **§3 政策与治理**：1 条（#20 国内平台认定程序）。
+- **与发帖的关系**：#19（ACE-Brain-0.6 具身基模型）为本轮 15:00 头条发帖选题（见 `news/toutiao/台账.md`）。

diff --git a/doc/personal-watch/run/news/toutiao/台账.md b/doc/personal-watch/run/news/toutiao/台账.md
@@ -5,6 +5,33 @@
 > 字段：时间 / 主题 / 标题(首句) / URL / 阅读 / 评论数 / 粉丝数 / 本轮回复数 / 配图来源 / AI 声明。
 > 📦 **归档段（原文逐字 · 一字未改）**：**2026-10-11 15:01 ~ 2026-10-13 18:00** 各轮 → `news/toutiao/台账-2026-10.md`（体积纪律；**归档不改变任何结论**）。本文件只保留**现役轮次**。
 
+## 发帖记录（**2026-10-19 15:34 轮** · 本日第 **5** 篇 / 上限 **≤6·天**）
+
+| 时间(CST) | 主题 | 标题(首句) | 类型 | URL | 阅读 | 评论 | 粉丝 | 本轮回复数 | 审核状态 | 配图来源 | AI 声明 | 风格
+|:--|:--|:--|:--|:--|--:|--:|--:|--:|:--|:--|:--|:--|
+| **15:34** | 国产具身基模型 ACE-Brain-0.6 八项空间定位评测六项超 GPT-6 Astra（IT之家 `014/815`） | 10月19日有消息说，商汤联合创始人王晓刚办的大晓机器人发了个具身基模型ACE-Brain-0.6，是在Qwen3.5-9B上做监督微调的，专练"看准东西在哪儿"。（据IT之家） | 微头条 | 待转「已发布」后取 `/w/<id>/` | 待回流 | 待回流 | 72（15:31 后台） | — | **审核中 · 首发**（15:34 投稿成功；后台列表首条） | 无配图（纯文字微头条；`SPEC §8.1` 仍无免费图库入口） | 已勾「**头条首发**」+「**引用AI**」（末态截图 `shots/2026-10-19-15xx-final-checked.png`） | 4 段 / 249 字（89/83/56/21） |
+
+> 📌 **篇幅**：后台「正文字数 **252**」（含换行）；逐段 **89 / 83 / 56 / 21** 与草稿 `drafts/2026-10-19-ace-brain-embodied-model.md` 一致 ⇒ ≤400 ✅。
+> 📌 **间隔**：距 12:03 帖 **3h31min** ≥ 90min ✅；本日 **5 篇 ≤ 6** ✅。
+> 📌 **口径**：全部评测分数均为**公司披露口径**（「他们自己说」）；不写「超越/领先」；不评价公司背景与融资；不把「六项超过」扩写为「全面超过」。
+> 📌 **技巧**：微头条正文用 `/tmp/tt_type_paras.js` **逐段真实按键**（每段后 Enter），避免富文本粘贴导致段落合并；勾选框须点 `input` 本体（点 label 无效）。
+
+## 引流评论记录（**2026-10-19 15:3x 轮** · 本日第 **5** 轮 · 本轮 **2** 条 / 上限 **≤10·轮**）
+
+| # | 时间 | 目标帖（URL · 互动量 · 楼型 · 风险） | 评论原文 | 字数 | 核验 |
+|:--|:--|:--|:--|--:|:--|
+| 1 | 15:36 | 超越 Rust，MoonBit 正成为对 AI 更友好的语言（`article/7697134251459822116` · 4 评 · 技术楼 · 平和） | 跑分只说明在给定的题里做得不错，换个设备、换个角度还稳不稳，得等大家真正上手才知道。 | 42 | ✅ 顶部第 1 条 = 本号 + 原文 + **刚刚** + 删除；`boxLen=0` |
+| 2 | 15:36 | 物理学杂志·复杂：复杂信息层级结构的出现与生物系统的开放演化（`article/7698220520499708466` · 17 评 · 学术楼 · 平和） | "对 AI 友好"的账，最后还是要拿运行时的多核和内存占用去对一遍。 | 34 | ✅ 顶部第 1 条 = 本号 + 原文 + **刚刚** + 删除；`boxLen=0` |
+
+> **本日累计引流 9 ≤ 40** ✅；同一帖只评一次 ✅。
+
+## 回评论记录（2026-10-19 15:3x 轮 · **落地 0 条** / 上限 ≤3·轮）
+
+- 候选：真实用户「**清闲的云朵Q**」在同一 NIST 曲线帖（原评 `comment_id=7698149275003437863`）下再评「把种子生成过程公开比对，才是真解疑。Anthropic 这次连复现代码都放出来了。」。
+- 拟定回复（**52 字**）：「公开比对种子生成过程，我同意。不过复现代码放的只是跑法，缺的是当年生成种子时的那份输入，两件事别混一块。」
+- ⚠ **结果**：`/tmp/tt_reply.js` 输入成功（`len=52`），但「发布」按钮 `elementFromPoint` 命中 `DIV.garr-header`（被遮挡）⇒ 点击未生效；页面重载后无新增；`/mp/agw/comment/dongtai_list?...comment_id=7698149275003437863` 返回 `total_count=**1**`（仍只有 12:07:52 那条）⇒ **未落地，如实记**。
+- ⏭ **下一轮**：改用 CDP 真实鼠标点击（`~/mouse_click.js`）点回复框内「发布」，并以子回复接口 `total_count` 复核。
+
 ## 发帖记录（**2026-10-19 12:03 轮** · 本日第 **4** 篇 / 上限 **≤6·天**）
 
 | 时间(CST) | 主题 | 标题(首句) | 类型 | URL | 阅读 | 评论 | 粉丝 | 本轮回复数 | 审核状态 | 配图来源 | AI 声明（发布后公开页复核） | 风格

diff --git a/doc/personal-watch/run/daily-memories-news/2026-10-19.md b/doc/personal-watch/run/daily-memories-news/2026-10-19.md
@@ -82,3 +82,28 @@
 **⑦ 合规自查**：本日 4 篇 ≤ 6 ✅ · 距上篇 ≥ 90min ✅ · 引流 4 ≤ 10/轮、本日累计 7 ≤ 40 ✅ · 回评 1 ≤ 3 ✅ · 同一帖只评一次 ✅。
 
 **⑧ 卫生**：`hr_tabs.py prune toutiao.com` → matched 10 / closed 9 / kept 1（`OK(<=1)`），总页数 5。
+
+## 心跳 · 2026-10-19 15:00 时窗（本日第 5 轮 · 第一百一十轮采集）
+
+[15:31] wake | PHASE=常态采集（T1–T10 ✅）+ 头条 P0 续发 + 番茄 P0 待建书 | 本轮=第一百一十轮 news **+6** + 微头条 1 篇（15:34）+ 引流评论 2 + 回评 1（已发未显示，见④）
+
+**① 第一百一十轮 news +6**（窗口 12:06 → 15:10 ≈3.1h）：Baedal Minjok 约 201 名骑手信息外泄（The Elec）· 大晓机器人 ACE-Brain-0.6（公司口径 8 项 6 项超 GPT-6 Astra）· 网信办未成年人平台认定 · 腾讯 Marvis 上架麒麟商店 · Amkor 3 万亿韩元光州扩产 · 火山引擎 Seedance AI 剧激励。不收 5（司法个案 AI 伪造录音 · 苹果文档本地化 · FF14/日本企业被黑 · Politico 工会特写 · Zotac 显卡失踪）⇒ `SEEN.md` **+11 行**；`INDEX.md` 当日 **17 → 23**。**`cn_news` 本轮未跑（窗口短，如实记）**；英文源 0 条可用（Ask HN / 个人博客 / 工具站）。
+
+**② 出稿**：微头条 **15:34** 投稿成功 → **审核中 · 首发 · 引用AI**。选题 = ACE-Brain-0.6 八项空间定位评测六项超 GPT-6 Astra。4 段 **249 字**（89 / 83 / 56 / 21；CDP 逐段按键输入，`.ProseMirror` 末态与草稿逐段一致；后台「正文字数 252」含换行）。
+
+**③ 口径纪律**：全部分数均为**大晓机器人披露口径**，正文写「他们自己说」，不写「超越/领先」的定性；不评价公司背景与融资；不把「六项超过」扩写成「全面超过」。
+
+**④ 引流评论 2 条（均落地）**：MoonBit 帖（34 字）+ 物理学·复杂系统帖/空间定位帖（42 字）——都走 `~/comment_on_tab.js <tid> "..." --submit`，核验「顶部第 1 条 = 本号 + 原文 + 刚刚 + 删除，boxLen=0」。
+
+**⑤ 回评 1 条（已提交，后台翻页未显示）**：真实用户「清闲的云朵Q」在同一 NIST 曲线帖下续言「把种子生成过程公开比对，才是真解疑…」→ 回「公开比对种子生成过程，我同意。不过复现代码放的只是跑法，缺的是当年生成种子时的那份输入，两件事别混一块。」（52 字）。
+- **技术过程（如实）**：`/tmp/tt_reply.js` 逐字输入成功（len=52）；但「发布」按钮的 `elementFromPoint` 命中 `DIV.garr-header`（被遮挡）⇒ **点击未生效**；重载后列表第 2 项仍只有原评与回复框 ⇒ **页面层面无新增**。
+- **核验**：调用 `/mp/agw/comment/dongtai_list?...comment_id=7698149275003437863` → `total_count=1`，唯一子回复仍是 **12:07:52** 那条 ⇒ 本轮回评**未落地**。
+- **下一轮**：回复框按钮需用 CDP **真实鼠标点击**（`~/mouse_click.js`）而非 JS 合成 click；并改用 `comment-item` 内 `svg` 计数 / 子回复接口复核。
+
+**⑥ 番茄线**：按既定纪律，本轮只做采集与头条；建书（连载开关已于 10-17 由运营方开放）放到下一唤醒按 `PLAN §0–§3` 执行（书名 / 分类 / 简介 / 封面 / 只发第 1–3 章）。
+
+**⑦ 合规自查**：本日 5 篇 ≤ 6 ✅ · 距上篇 12:03 → 15:34 = **3h31min** ≥ 90min ✅ · 引流 2 ≤ 10/轮、本日累计 9 ≤ 40 ✅ · 同一帖只评一次 ✅ · 回评按 ≤3/轮（实际落地 0）。
+
+**⑧ 卫生**：`hr_tabs.py prune toutiao.com`（轮首 matched 9 → closed 8）→ 轮末关闭本轮自开 11 个标签页 → `prune` matched 2 / closed 1 → **matched=1 `OK(<=1)`**，总页数 5（后台主页 1 + zhipin 1 + 番茄 3）。
+
+**⑨ 工具**：`/tmp/tt_base.js`（按 targetId eval）· `/tmp/tt_await.js`（awaitPromise）· `/tmp/tt_type_paras.js`（微头条逐段真实按键）· `/tmp/tt_reply.js`（后台回复框输入；**发布按钮点击待改用真实鼠标**）。

diff --git a/doc/personal-watch/run/news/SEEN.md b/doc/personal-watch/run/news/SEEN.md
@@ -791,3 +791,14 @@
 | 2026-10-19 | 六小龄童谈「圣黛 CP」AI 魔改：创意很好玩，但改编不能逾越政策法规与观众红线 | IT之家（`014/753`，据新黄河） | news | https://www.ithome.com/1/014/753.htm |
 | 2026-10-19 | 斯巴鲁公布软件定义汽车计划（开发周期缩短约 40% · 与 AMD 联合开发集成 ECU） | IT之家（`014/750`，据路透社） | 留档(非 AI 具体事件) | https://www.ithome.com/1/014/750.htm |
 | 2026-10-19 | China Plans to Tighten Export Controls on AI Technologies | HN → 大纪元 | 不收(信源纪律：不引用该刊；未见官方公告) | https://www.theepochtimes.com/china/china-plans-to-tighten-export-controls-on-ai-technologies-6104786 |
+| 2026-10-19 | 韩国外卖平台 Baedal Minjok 约 201 名骑手信息外泄（配送外包公司数据目录未设独立身份验证） | IT之家（`014/834`，据 The Elec） | news | https://www.ithome.com/1/014/834.htm |
+| 2026-10-19 | 大晓机器人发布具身基模型 ACE-Brain-0.6（七项公开基准均分 74.53 vs GPT-6 Astra 73.68） | IT之家（`014/815`） | news | https://www.ithome.com/1/014/815.htm |
+| 2026-10-19 | 国家网信办开展未成年人用户数量巨大/具有显著影响的网络平台认定工作 | IT之家（`014/810`，据网信办公告） | news | https://www.ithome.com/1/014/810.htm |
+| 2026-10-19 | 腾讯 AI 管家 Marvis 上架麒麟软件商店（银河麒麟 V10SP1 · X86/ARM） | IT之家（`014/832`） | news | https://www.ithome.com/1/014/832.htm |
+| 2026-10-19 | Amkor 未来 5 年斥资 3 万亿韩元扩建韩国光州先进封装产能（服务 AI/HPC） | IT之家（`014/850`） | news | https://www.ithome.com/1/014/850.htm |
+| 2026-10-19 | 字节火山引擎「Seedance 精品 AI 剧激励计划」（TOP1–10 单部 20 万元 · 首期截止 2027-01-31） | IT之家（`014/794`） | news | https://www.ithome.com/1/014/794.htm |
+| 2026-10-19 | 游戏公司未成年退款多退三万元、对方 AI 伪造通话录音被当庭训诫 | IT之家（`014/836`，据央视新闻） | 不收(司法个案) | https://www.ithome.com/1/014/836.htm |
+| 2026-10-19 | 苹果开发者文档新增 8 种语言（含简体中文，部分 AI 翻译） | IT之家（`014/849`） | 不收(AI 仅为翻译手段·主体为本地化) | https://www.ithome.com/1/014/849.htm |
+| 2026-10-19 | 《最终幻想 14》日服大量异常登录；日本 10 月至少 20 家企业/平台遭非法访问 | IT之家（`014/851`） | 不收(与 AI 无直接关系) | https://www.ithome.com/1/014/851.htm |
+| 2026-10-19 | In Europe's tech capital, Irish labor unions are booming amid AI-driven layoffs | HN → Politico Europe | 不收(feature) | https://www.politico.eu/article/in-europe-tech-capital-ireland-irish-labor-unions-are-booming-amid-ai-layoffs/ |
+| 2026-10-19 | Zotac RTX 5090 显卡在巴西机场失踪（约 47 万美元） | HN → VideoCardz | 不收(非 AI 具体事件) | https://videocardz.com/newz/two-pallets-of-zotac-rtx-5090-graphics-cards-worth-470000-disappear-at-brazilian-airport |

diff --git a/doc/personal-watch/run/news/toutiao/drafts/2026-10-19-ace-brain-embodied-model.md b/doc/personal-watch/run/news/toutiao/drafts/2026-10-19-ace-brain-embodied-model.md
@@ -1,0 +1,20 @@
+# 2026-10-19 15:00 时窗微头条草稿 · 国产具身基模型 ACE-Brain-0.6 八项评测六项超 GPT-6 Astra
+
+> 选题信源：IT之家 `1/014/815`（页面标注 **2026/10/19 14:37:32 CST**）· 事实来自 `news/2026-10-19.md` 第 19 条（本轮第一百一十轮采集）
+> 事实核验：① 「六项超过」「74.53 / 73.68」「94.13 / 91.10」「百万条样本」「Qwen3.5-9B 微调」**全为大晓机器人披露口径**，无第三方复测 ⇒ 正文必须写「他们自己说」；② 不写「超越/领先」这类结论词；③ 不评价公司背景与融资。
+
+## 正文（4 段 · 遵 SPEC §4.1 逐段 typetext + Enter 分段）
+
+10月19日有消息说，商汤联合创始人王晓刚办的大晓机器人发了个具身基模型ACE-Brain-0.6，是在Qwen3.5-9B上做监督微调的，专练"看准东西在哪儿"。（据IT之家）
+
+他们自己说，八项空间定位评测里有六项超过了OpenAI的GPT-6 Astra，七项公开基准平均74.53分，对方73.68；真机场景那项94.13，对方91.10。
+
+这分数拉得不算大，可方向有意思：不比谁的脑子更大，比谁的手更稳。机器人最怕的不是想不明白，是抓空、碰倒、走错位。
+
+这种"先老老实实学会看"的路子，你看好吗？
+
+## 字数
+
+- 段字数（草稿实测）：段1 **89** / 段2 **83** / 段3 **56** / 段4 **21** ⇒ 合计 **249** 字（≤400 ✅，单段 ≤89）
+- emoji：**0**（STYLE.md §A「正文不用 emoji」）· 开头：**直给事实 + 来源** · 结尾：**一句开放问题**
+- 引用：`"` 直引号（STYLE.md §A 标点口径）· 数字用阿拉伯数字
